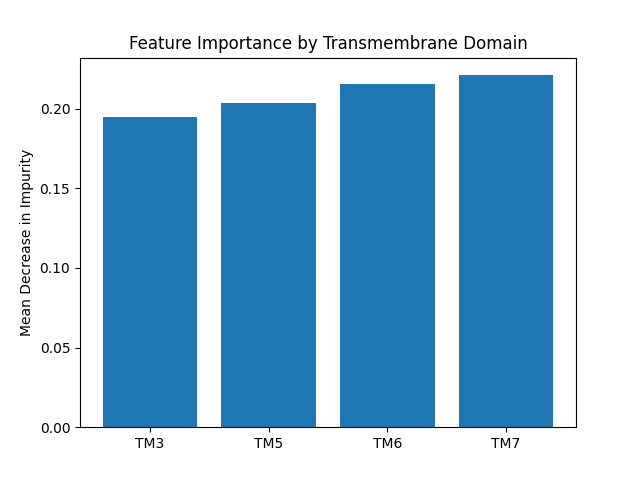
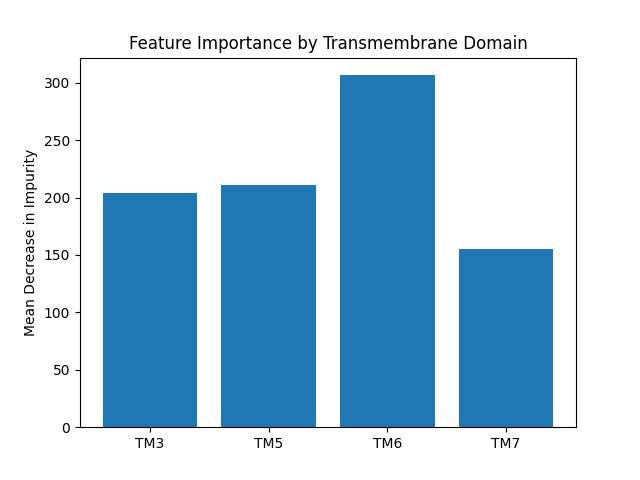
New feature graphs

diff --git a/RF/TrainandTest.py b/RF/TrainandTest.py
@@ -2,7 +2,7 @@
 import CombineLigandsProteins
 #import Sequence_only
 import FixedClassificationModel
-import Structure_only
+#import Structure_only
 #import AdjustingThreshold
 #import Feature_Importance.FeatureImportance as fi
 import Metrics_Graphs
@@ -15,17 +15,17 @@ testY = CombineLigandsProteins.Y
 #seqX = Sequence_only.X
 #seqY = Sequence_only.Y
 
-Structure_only.import_final()
-structX = Structure_only.X
-structY = Structure_only.Y
+#Structure_only.import_final()
+#structX = Structure_only.X
+#structY = Structure_only.Y
 
 #AdjustingThreshold.train(testX, testY)
 
 #fi.importance_file(testX, testY, CombineLigandsProteins.feats)
 #FixedClassificationModel.train(testX, testY)
-#Metrics_Graphs.train(testX, testY)
+Metrics_Graphs.train(testX, testY)
 
-
+"""
 accuracy = 0
 recall = 0
 BAC = 0
@@ -50,4 +50,4 @@ print('Average Matthew: ' + str(mat/50))
 
 f.close()
 
-
+"""

diff --git a/RF/Feature_Importance/Importance_Graph.py b/RF/Feature_Importance/Importance_Graph.py
@@ -3,7 +3,7 @@
 import math as m
 import matplotlib.pyplot as plt
 
-with open('dimethyltrisulfide_importance.txt') as f: 
+with open('important_features.txt') as f: 
     lines = f.readlines()
 i=0
 values = {'ligand':0, 'sequence':0, 'structure':0}
@@ -32,10 +32,10 @@ fig,ax = plt.subplots()
 plt.bar(list(values.keys()), list(values.values()))
 ax.set_title("Feature Importance by Type")
 plt.ylabel('Mean Decrease in Impurity')
-fig.savefig('Relative_Feature_Importance_Sulfur.png')
+fig.savefig('Relative_Feature_Importance.png')
 
 fig2, ax2 = plt.subplots()
 plt.bar(list(domains.keys()), list(domains.values()))
 ax2.set_title("Feature Importance by Transmembrane Domain")
 plt.ylabel('Mean Decrease in Impurity')
-fig2.savefig('Domain_Importance_Sulfur.png')
+fig2.savefig('Domain_Importance.png')

diff --git a/RF/CombineLigandsProteins.py b/RF/CombineLigandsProteins.py
@@ -96,7 +96,7 @@ AA_feat = [AA_filter_TM3, AA_filter_TM5, AA_filter_TM6, AA_filter_TM7]
 Di_seqvar = [Di_seqvar_TM3, Di_seqvar_TM5, Di_seqvar_TM6, Di_seqvar_TM7]
 Di_feat = [Di_filter_TM3, Di_filter_TM5, Di_filter_TM6, Di_filter_TM7]
 
-unique_proteins = Duplicates.remove_proteins(AA_seqvar, AA_feat, Di_seqvar, Di_feat, pairs_by_prot, proteins_toconsider)
+unique_proteins = Duplicates.remove_proteins(AA_seqvar, AA_feat, Di_seqvar, Di_feat, pairs_by_prot, list(proteins_toconsider))
 
 pos_dict = {}
 neg_dict = {}

diff --git a/RF/Metrics_Graphs.py b/RF/Metrics_Graphs.py
@@ -38,6 +38,9 @@ def train(features, labels):
     for num in list(rp.keys()):
         rp[num] = statistics.mean(rp[num])
     fig1 = plt.plot(list(rp.keys()), list(rp.values()))
+    plt.xlabel("Recall")
+    plt.ylabel("Precision")
+    plt.title("Precision-Recall Curve")
     plt.savefig("Precision_Recall.png")
 
     
